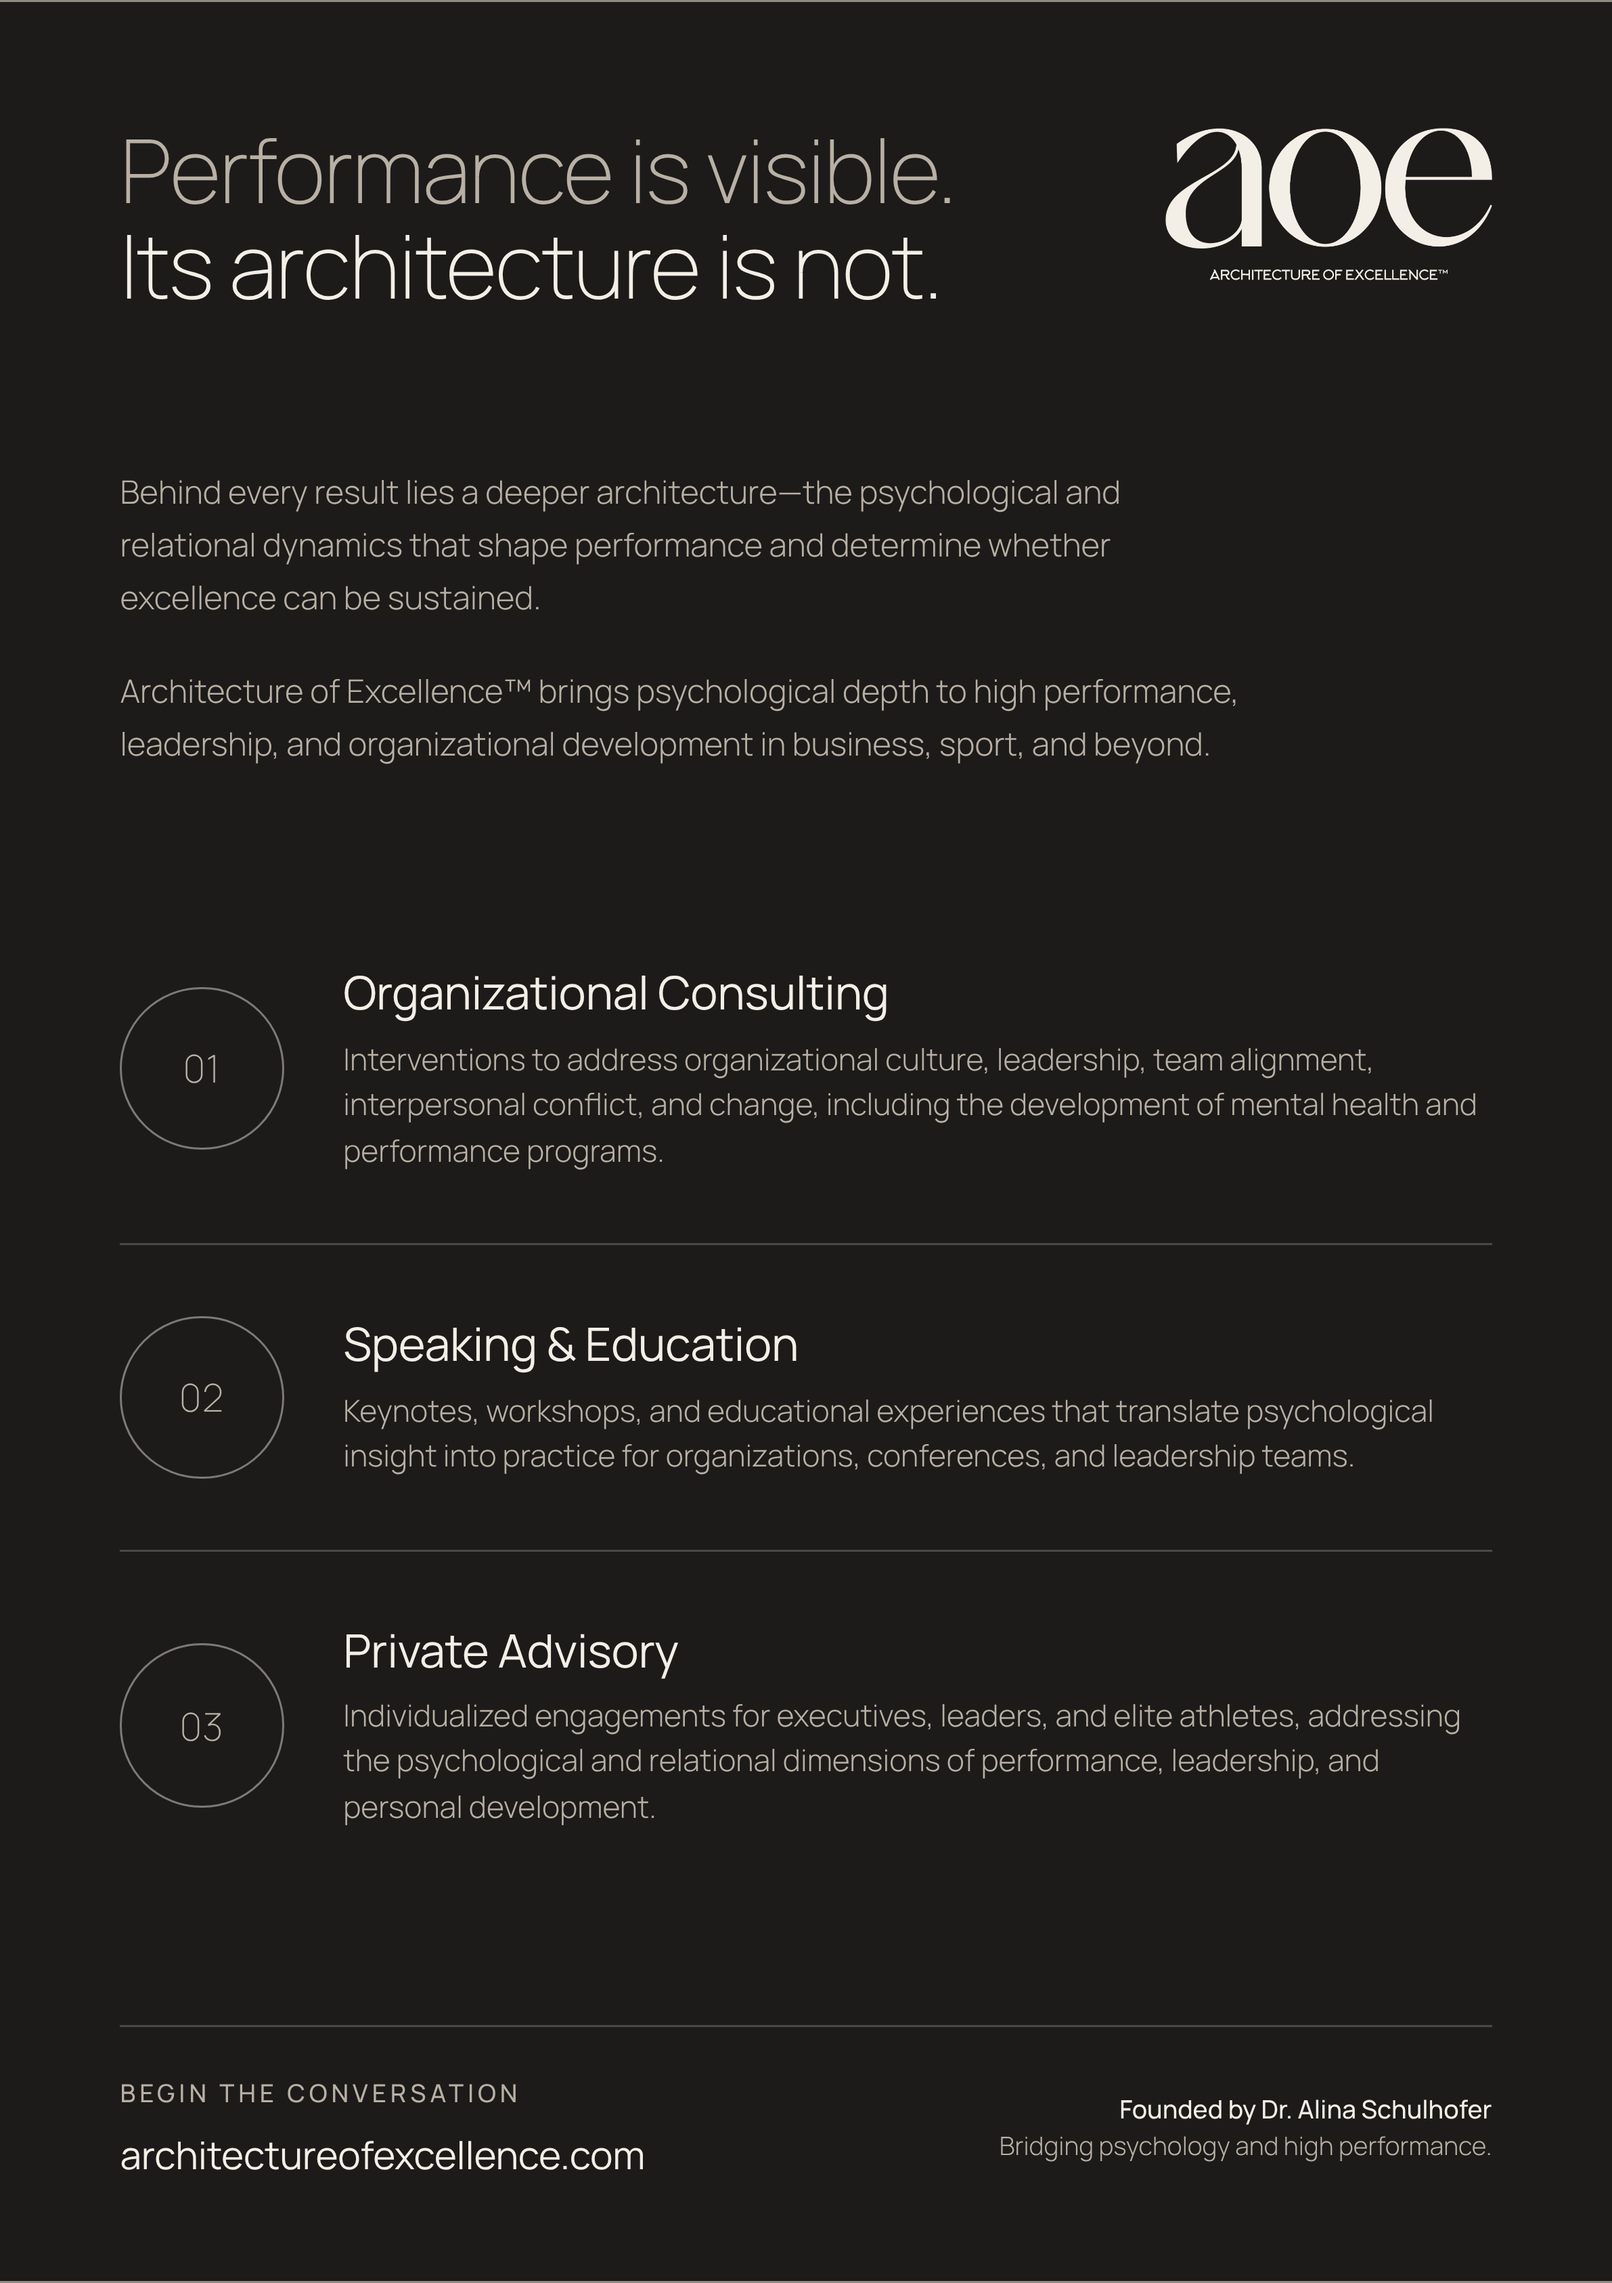
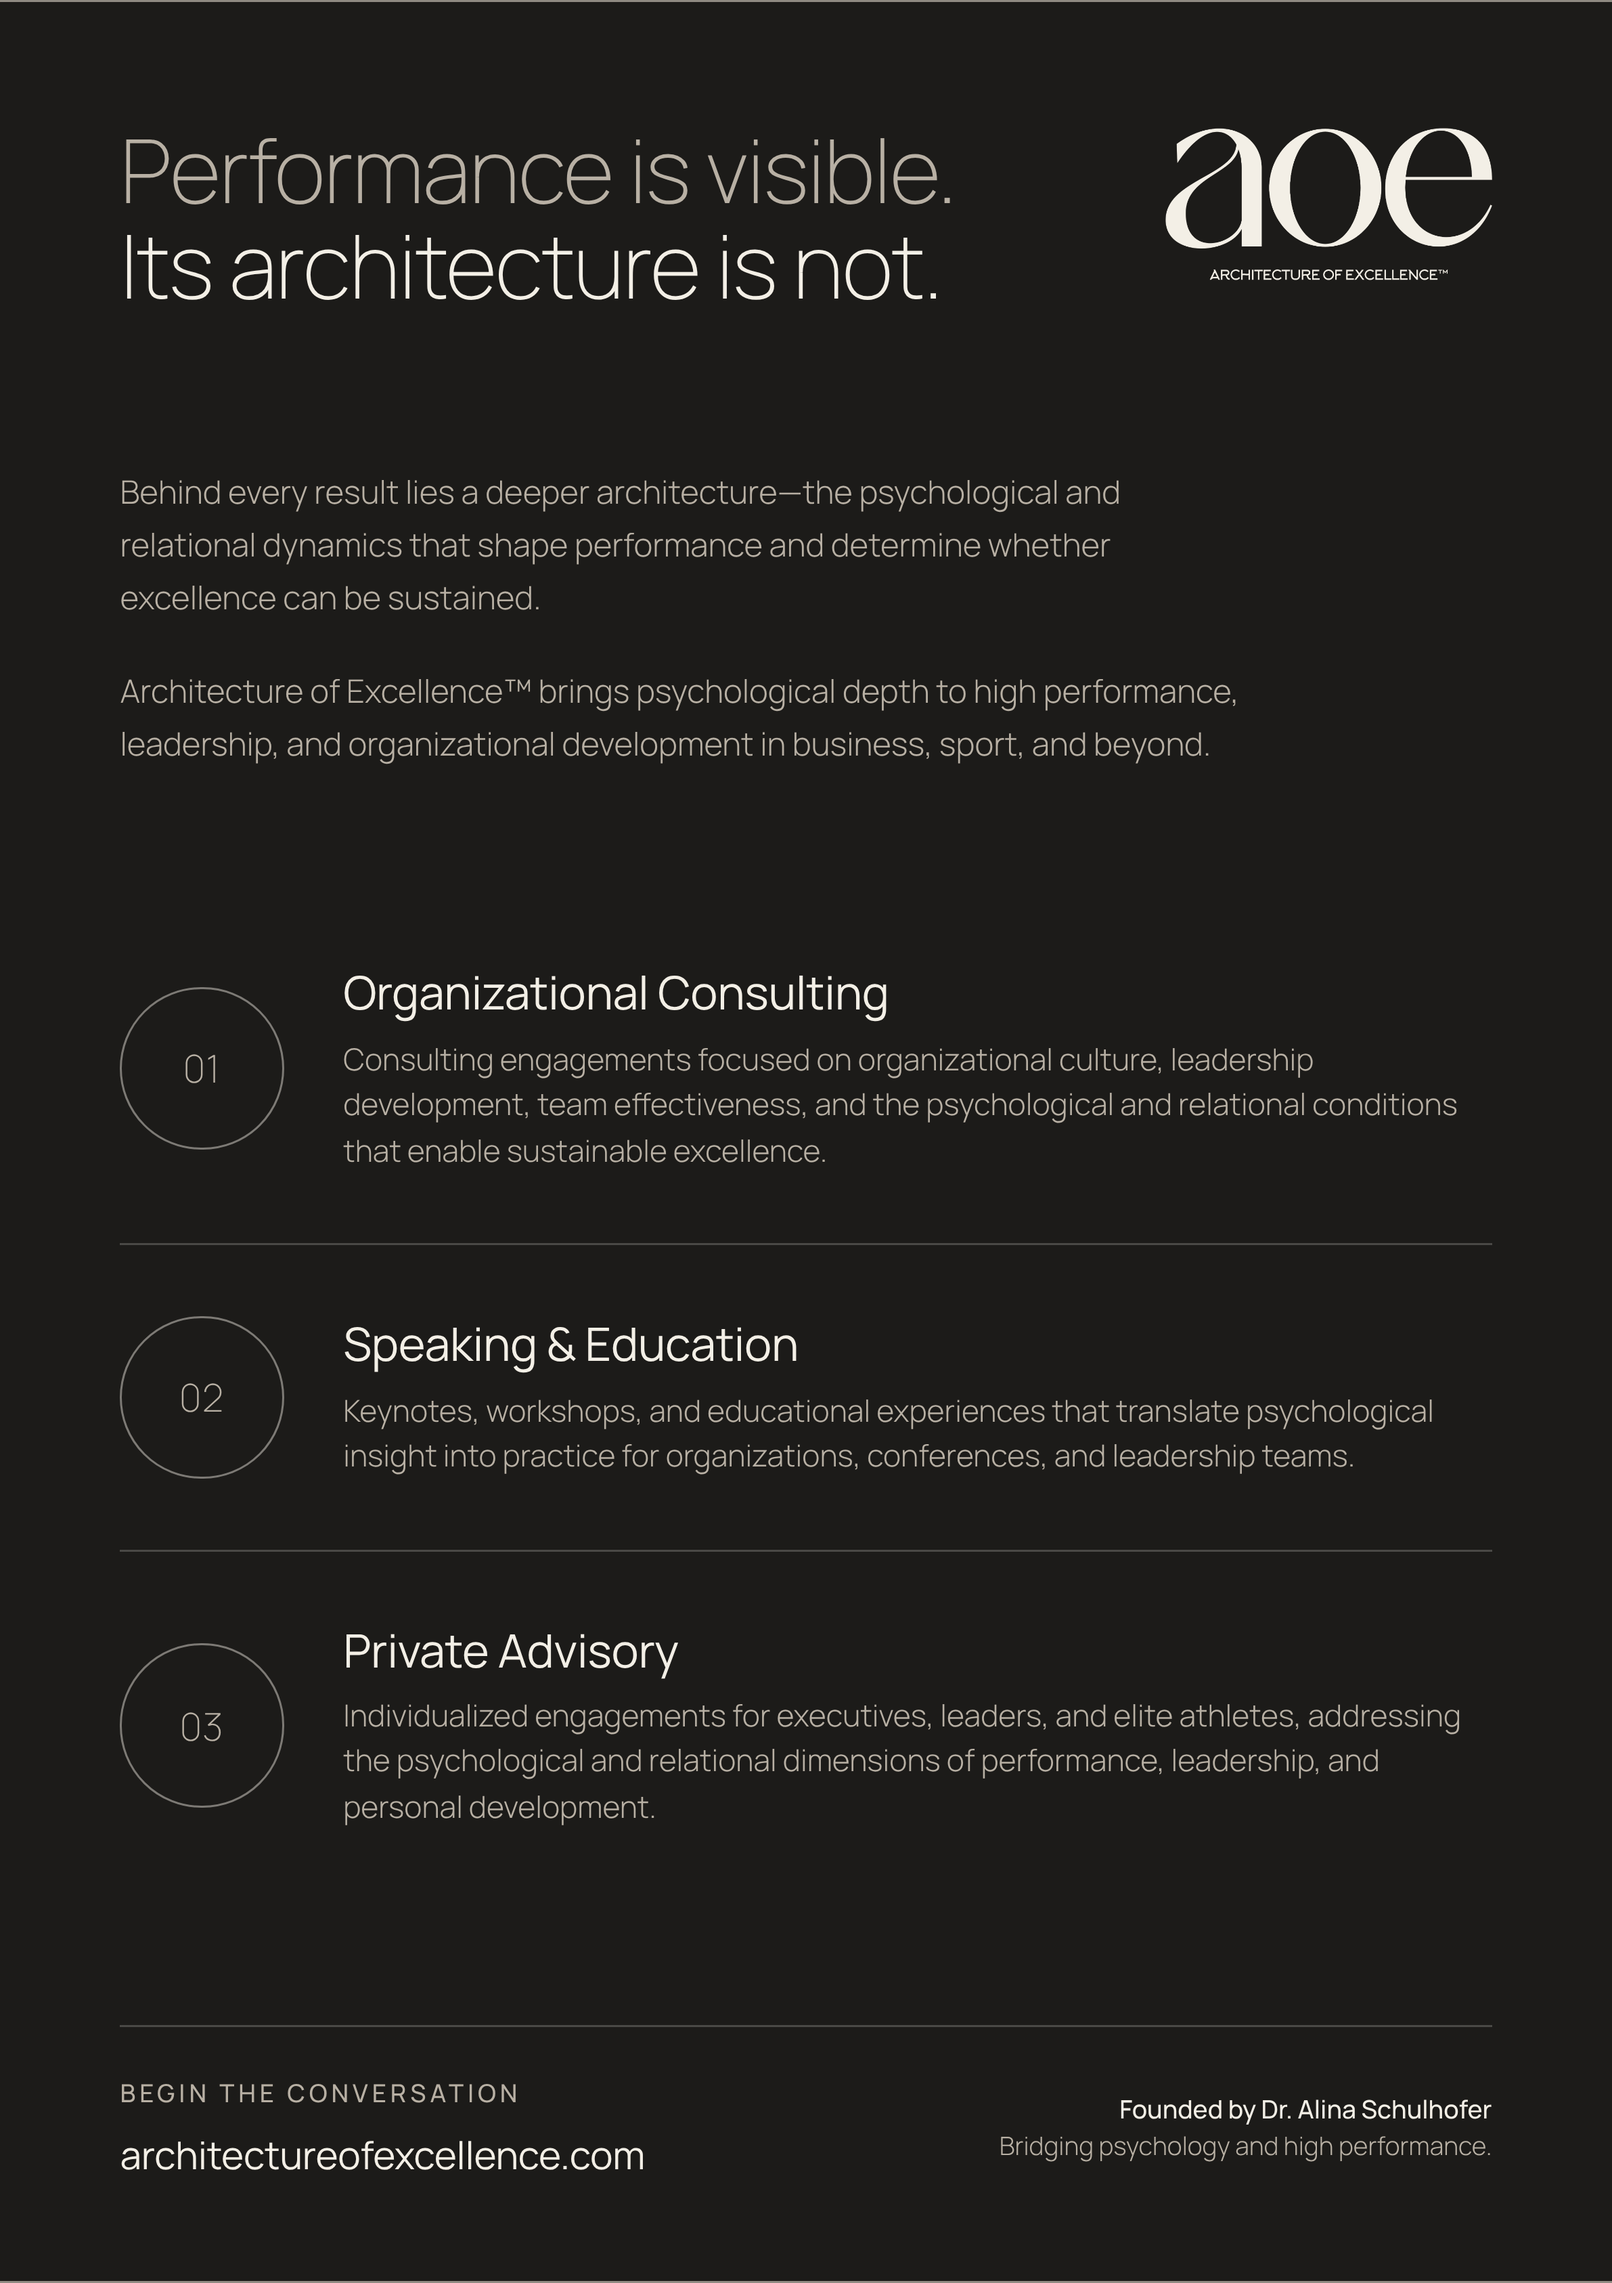
Final ad: new Organizational Consulting description
Claude-Session: https://claude.ai/code/session_016XVBEBNhyuoZMVmUbvV6yP

Changed region(s): [[0.2175, 0.4359, 0.9009, 0.5294]]

diff --git a/ads/panam-aquatics-2026/final-ad.html b/ads/panam-aquatics-2026/final-ad.html
@@ -72,7 +72,7 @@
       <div class="ring numeral">01</div>
       <div>
         <h2 class="svc-title">Organizational Consulting</h2>
-        <p class="svc-text">Interventions to address organizational culture, leadership, team alignment, interpersonal conflict, and change, including the development of mental health and performance programs.</p>
+        <p class="svc-text">Consulting engagements focused on organizational culture, leadership development, team effectiveness, and the psychological and relational conditions that enable sustainable excellence.</p>
       </div>
     </div>
     <div class="svc">
